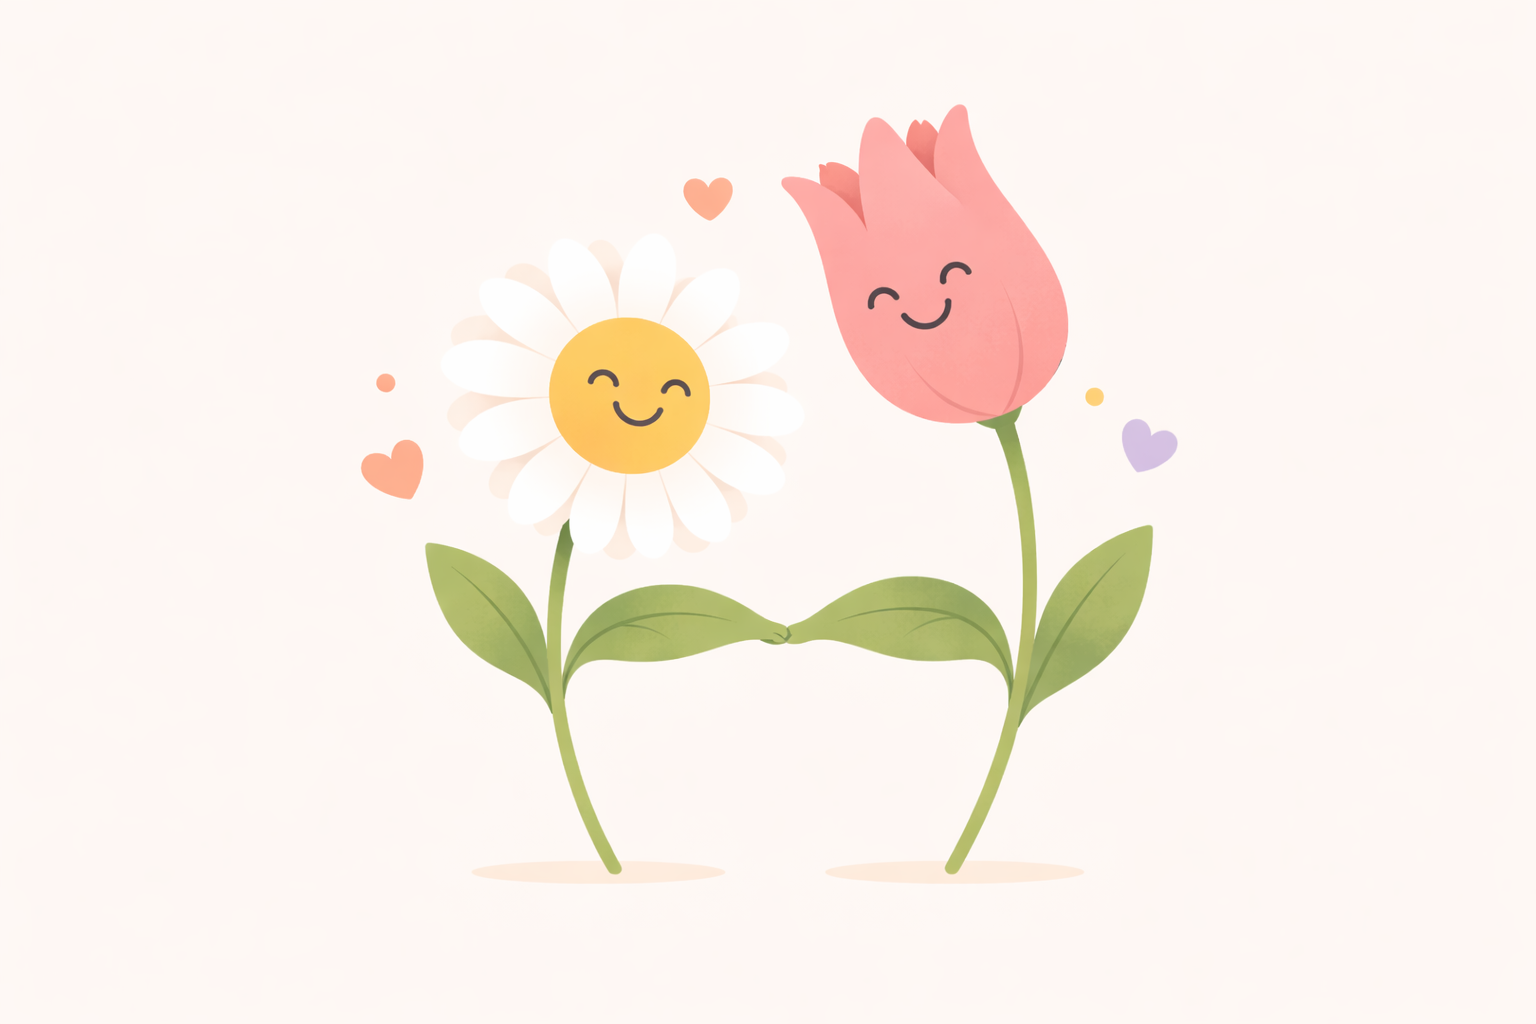
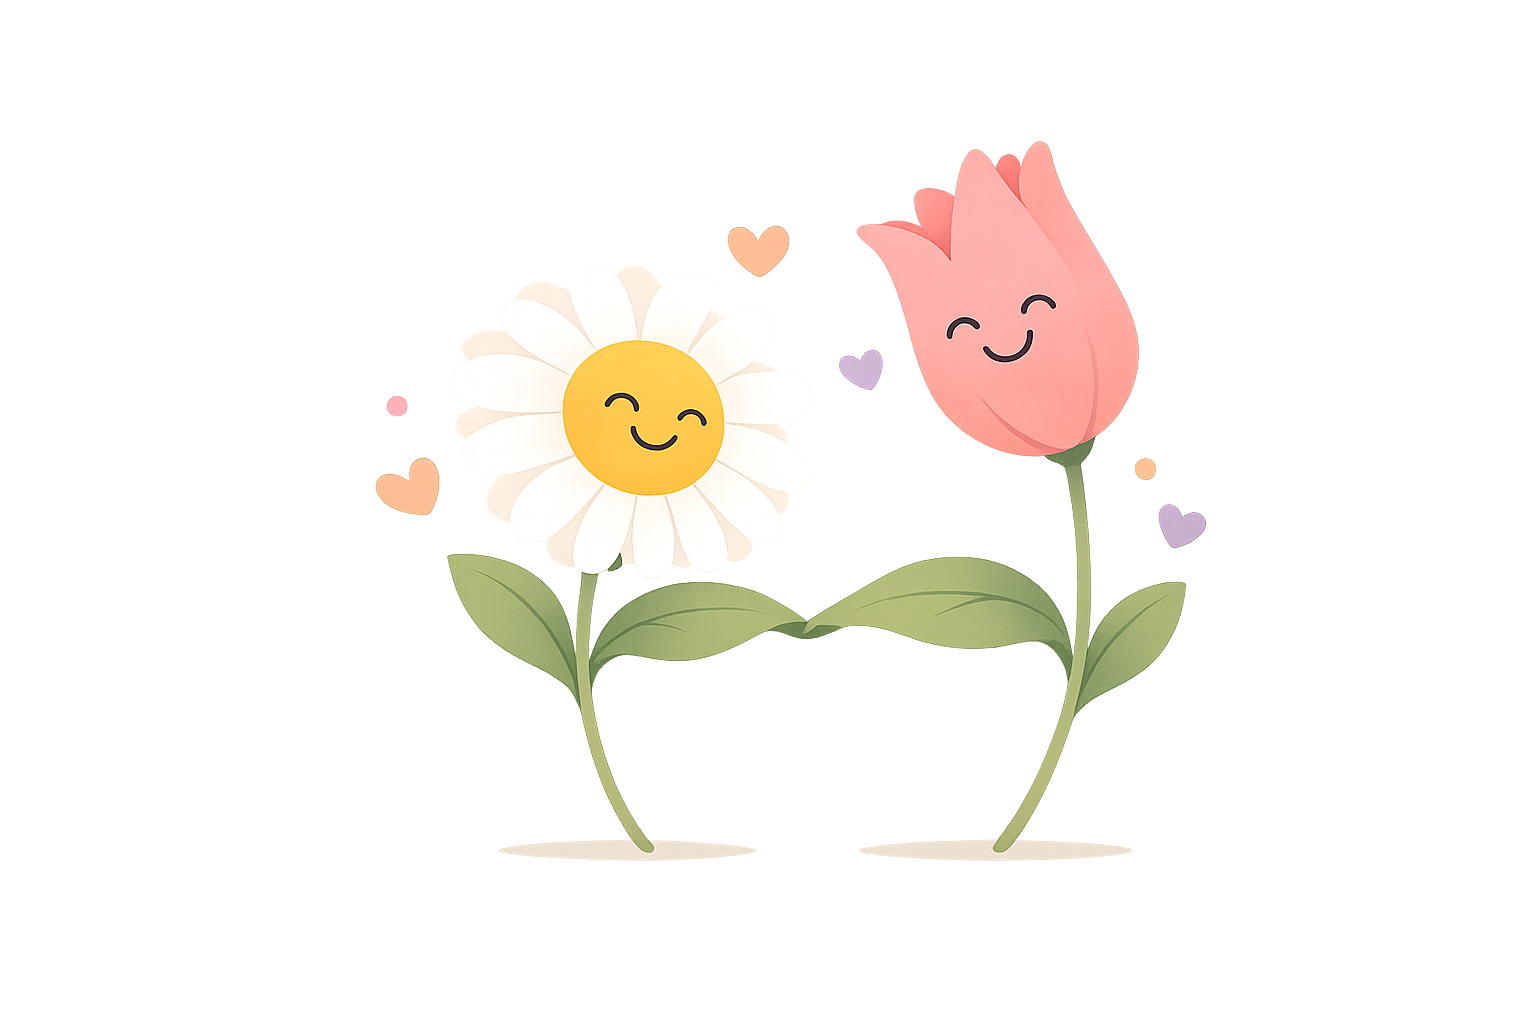
Changes

Changed region(s): [[0.2188, 0.0938, 0.7812, 0.875]]

diff --git a/src/pages/LoginPage.tsx b/src/pages/LoginPage.tsx
@@ -57,19 +57,16 @@ const LoginPage = () => {
         transition={{ duration: 0.5 }}
         className="w-full max-w-sm space-y-8"
       >
-        {/* Logo & Illustration */}
-        <div className="text-center space-y-4">
+        {/* Illustration */}
+        <div className="text-center">
           <motion.img
             src={loginIllustration}
             alt="Friendly flowers illustration"
-            className="w-48 h-auto mx-auto"
+            className="w-72 h-auto mx-auto"
             initial={{ scale: 0.8, opacity: 0 }}
             animate={{ scale: 1, opacity: 1 }}
             transition={{ duration: 0.6, ease: "easeOut" }}
           />
-          <h1 className="font-display text-3xl font-bold text-foreground">
-            Bloom Studio
-          </h1>
         </div>
 
         {/* Form */}
